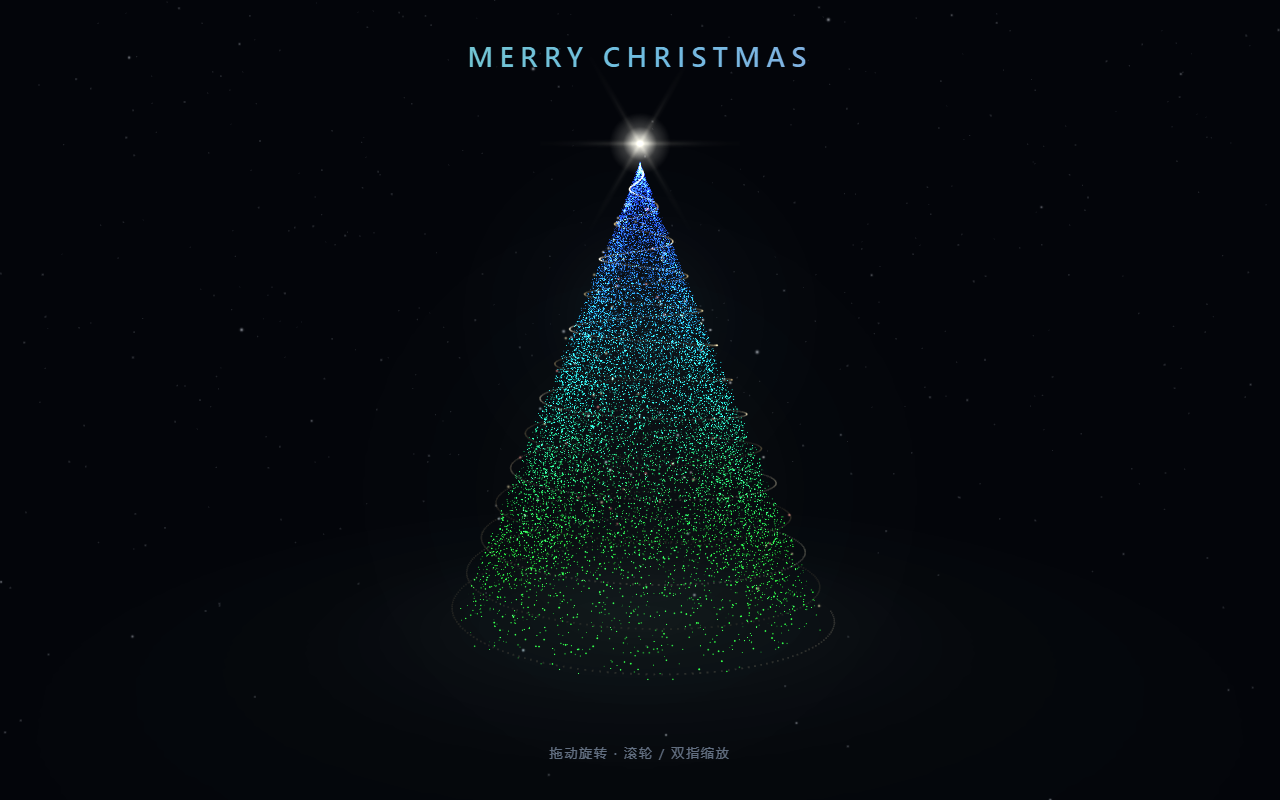
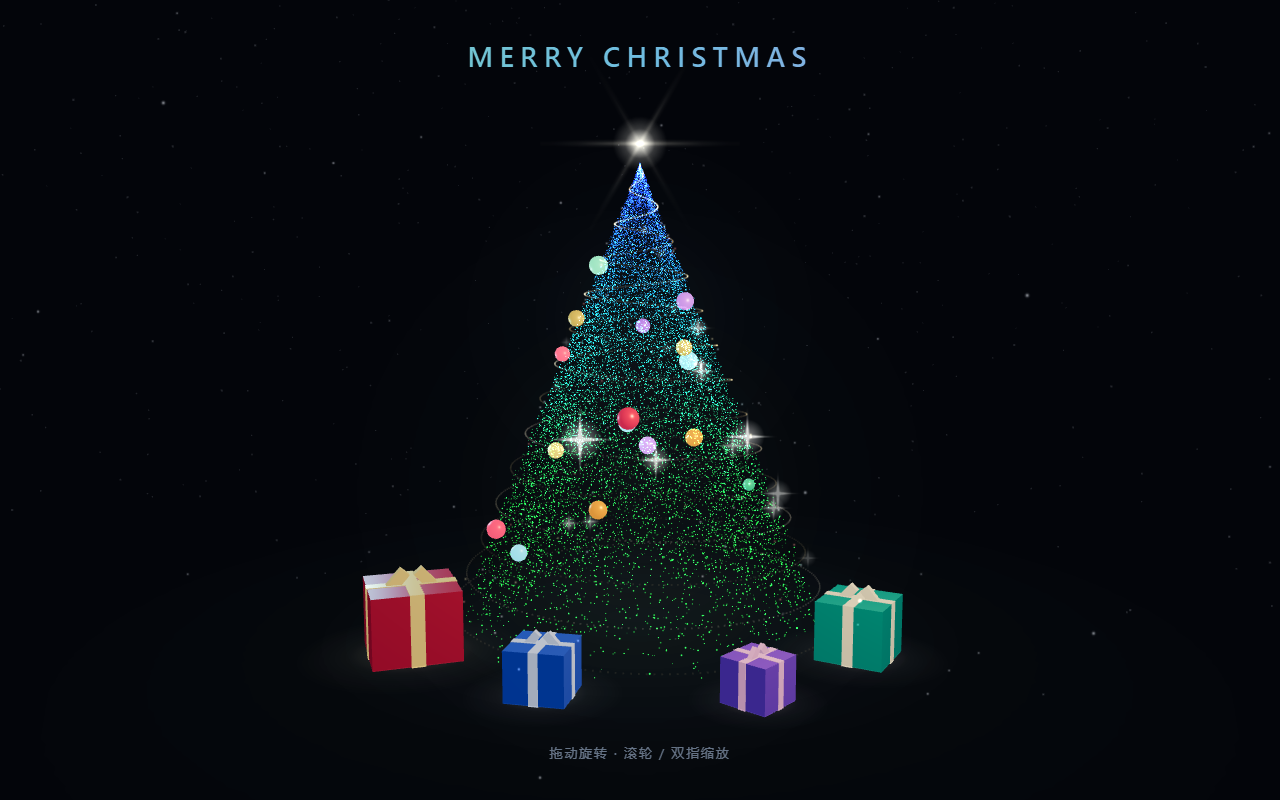
加装饰：彩球、闪光星芒、地面礼盒，手机竖屏自适应

Changed region(s): [[0.2812, 0.2188, 0.7188, 0.9062]]

diff --git a/index.html b/index.html
@@ -64,12 +64,24 @@ renderer.toneMapping = THREE.ACESFilmicToneMapping;
 renderer.toneMappingExposure = 1.2;
 
 const scene = new THREE.Scene();
+
+// 灯光只影响有材质的物体（礼盒、彩球），光点粒子本身是自发光的
+scene.add(new THREE.AmbientLight(0x33445c, 1.6));
+const keyLight = new THREE.PointLight(0xffd9a8, 16, 16, 2);
+keyLight.position.set(1.8, 3.0, 2.6);
+scene.add(keyLight);
+const fillLight = new THREE.PointLight(0x66d9ff, 9, 14, 2);
+fillLight.position.set(-2.6, 1.6, -1.2);
+scene.add(fillLight);
+
 const camera = new THREE.PerspectiveCamera(42, 1, 0.1, 400);
 const LOOK_AT = new THREE.Vector3(0, 1.72, 0);
 let camZ = 8.0;
 
 function layoutCamera() {
-  camera.position.set(0, 2.6, camZ);
+  // 竖屏（手机）时把相机拉远一点，免得两侧的礼盒被裁掉
+  const fit = window.innerWidth / window.innerHeight < 0.75 ? 1.24 : 1.0;
+  camera.position.set(0, 2.6, camZ * fit);
   camera.lookAt(LOOK_AT);
 }
 
@@ -90,6 +102,44 @@ function makeGlowTexture(size = 128) {
   return t;
 }
 const GLOW = makeGlowTexture();
+
+/* 四角星芒贴图：给树上的闪光点用 */
+function makeSparkleTexture(size = 128) {
+  const c = document.createElement('canvas');
+  c.width = c.height = size;
+  const g = c.getContext('2d');
+  const cx = size / 2;
+  const grd = g.createRadialGradient(cx, cx, 0, cx, cx, cx * 0.55);
+  grd.addColorStop(0.0, 'rgba(255,255,255,1)');
+  grd.addColorStop(0.30, 'rgba(255,255,255,0.45)');
+  grd.addColorStop(1.0, 'rgba(255,255,255,0)');
+  g.fillStyle = grd;
+  g.beginPath();
+  g.arc(cx, cx, cx, 0, Math.PI * 2);
+  g.fill();
+  g.globalCompositeOperation = 'lighter';
+  for (let i = 0; i < 4; i++) {
+    g.save();
+    g.translate(cx, cx);
+    g.rotate((i * Math.PI) / 2);
+    const lg = g.createLinearGradient(0, 0, 0, -cx);
+    lg.addColorStop(0, 'rgba(255,255,255,0.95)');
+    lg.addColorStop(0.55, 'rgba(255,255,255,0.35)');
+    lg.addColorStop(1, 'rgba(255,255,255,0)');
+    g.fillStyle = lg;
+    g.beginPath();
+    g.moveTo(-cx * 0.055, 0);
+    g.lineTo(0, -cx * 0.98);
+    g.lineTo(cx * 0.055, 0);
+    g.closePath();
+    g.fill();
+    g.restore();
+  }
+  const t = new THREE.CanvasTexture(c);
+  t.colorSpace = THREE.SRGBColorSpace;
+  return t;
+}
+const SPARKLE = makeSparkleTexture();
 
 const H = 3.5;   // 树高
 const R = 1.45;  // 底部半径
@@ -240,6 +290,49 @@ const ornamentMat = new THREE.PointsMaterial({
 
 treeGroup.add(new THREE.Points(ornamentGeo, ornamentMat));
 
+/* ---------- 树上的彩球：真正的小球体，靠灯光 + 自发光发亮 ---------- */
+const baubleGroup = new THREE.Group();
+treeGroup.add(baubleGroup);
+const BAUBLE_COLORS = [0xff4d6d, 0xffd166, 0x4dd6ff, 0xb07bff, 0x37e59b, 0xff9a3d];
+const baubles = [];
+for (let i = 0; i < 16; i++) {
+  const t = 0.10 + Math.random() * 0.74;
+  const r = R * (1 - t) * 1.02;
+  const a = Math.random() * Math.PI * 2;
+  const col = BAUBLE_COLORS[i % BAUBLE_COLORS.length];
+  const m = new THREE.Mesh(
+    new THREE.SphereGeometry(0.052 + Math.random() * 0.028, 16, 12),
+    new THREE.MeshStandardMaterial({
+      color: col, emissive: col, emissiveIntensity: 0.85,
+      roughness: 0.28, metalness: 0.45
+    })
+  );
+  m.position.set(Math.cos(a) * r, t * H, Math.sin(a) * r);
+  m.userData.phase = Math.random() * Math.PI * 2;
+  baubleGroup.add(m);
+  baubles.push(m);
+}
+
+/* ---------- 树上的闪光星芒：随机位置、各自呼吸闪烁 ---------- */
+const sparkleGroup = new THREE.Group();
+treeGroup.add(sparkleGroup);
+const sparkles = [];
+for (let i = 0; i < 18; i++) {
+  const t = 0.12 + Math.random() * 0.76;
+  const r = R * (1 - t) * (0.9 + Math.random() * 0.16);
+  const a = Math.random() * Math.PI * 2;
+  const s = new THREE.Sprite(new THREE.SpriteMaterial({
+    map: SPARKLE, transparent: true, depthWrite: false,
+    blending: THREE.AdditiveBlending, color: 0xfff4d6, opacity: 0.8
+  }));
+  s.position.set(Math.cos(a) * r, t * H, Math.sin(a) * r);
+  const base = 0.18 + Math.random() * 0.2;
+  s.scale.setScalar(base);
+  s.userData = { base, phase: Math.random() * Math.PI * 2, speed: 0.6 + Math.random() * 1.0 };
+  sparkleGroup.add(s);
+  sparkles.push(s);
+}
+
 /* ---------- 树顶星星：一个光球 + 四道十字flare ---------- */
 const starGroup = new THREE.Group();
 starGroup.position.set(0, H + 0.16, 0);
@@ -340,6 +433,73 @@ for (const cfg of [
   halos.push(s);
 }
 
+/* ---------- 地上的礼盒 ---------- */
+const gifts = new THREE.Group();
+scene.add(gifts);
+
+const giftSpecs = [
+  { w: 0.62, h: 0.50, d: 0.62, x: -1.62, z: 0.80, ry: 0.34, color: 0xe0455c, ribbon: 0xffd98a },
+  { w: 0.48, h: 0.42, d: 0.48, x: 1.54, z: 0.88, ry: -0.52, color: 0x2fb8a8, ribbon: 0xfff1cc },
+  { w: 0.34, h: 0.30, d: 0.34, x: 0.74, z: 1.70, ry: 0.85, color: 0x8f6cf2, ribbon: 0xffc2e8 },
+  { w: 0.40, h: 0.34, d: 0.40, x: -0.62, z: 1.58, ry: -0.22, color: 0x4a7cf0, ribbon: 0xd8e6ff }
+];
+
+for (const spec of giftSpecs) {
+  const { w, h, d } = spec;
+  const group = new THREE.Group();
+
+  const boxMat = new THREE.MeshStandardMaterial({
+    color: spec.color, roughness: 0.5, metalness: 0.15,
+    emissive: spec.color, emissiveIntensity: 0.18
+  });
+  const ribMat = new THREE.MeshStandardMaterial({
+    color: spec.ribbon, roughness: 0.3, metalness: 0.35,
+    emissive: spec.ribbon, emissiveIntensity: 0.32
+  });
+
+  group.add(new THREE.Mesh(new THREE.BoxGeometry(w, h, d), boxMat));
+
+  // 盒子底下的一圈暖光，把它压在地面上
+  const halo = new THREE.Mesh(
+    new THREE.PlaneGeometry(w * 2.6, d * 2.6),
+    new THREE.MeshBasicMaterial({
+      map: GLOW, color: spec.ribbon, transparent: true, opacity: 0.18,
+      depthWrite: false, blending: THREE.AdditiveBlending
+    })
+  );
+  halo.rotation.x = -Math.PI / 2;
+  halo.position.y = -h / 2 + 0.004;
+  group.add(halo);
+
+  // 两条交叉缎带，尺寸略放大一点，避免和盒面 z-fighting
+  group.add(new THREE.Mesh(new THREE.BoxGeometry(w * 0.16, h * 1.02, d * 1.02), ribMat));
+  group.add(new THREE.Mesh(new THREE.BoxGeometry(w * 1.02, h * 1.02, d * 0.16), ribMat));
+
+  // 顶上的蝴蝶结：两片向外张开的小缎带
+  const bowL = new THREE.Mesh(new THREE.BoxGeometry(w * 0.30, h * 0.16, d * 0.10), ribMat);
+  bowL.position.set(-w * 0.17, h / 2 + h * 0.05, 0);
+  bowL.rotation.z = 0.85;
+  const bowR = bowL.clone();
+  bowR.position.x = w * 0.17;
+  bowR.rotation.z = -0.85;
+  group.add(bowL, bowR);
+
+  group.position.set(spec.x, h / 2, spec.z);
+  group.rotation.y = spec.ry;
+  group.userData.baseX = spec.x;
+  gifts.add(group);
+}
+
+// 手机竖屏时把礼盒往中间收，免得最外侧的盒子被屏幕裁掉
+function layoutGifts() {
+  const narrow = window.innerWidth / window.innerHeight < 0.75;
+  const fx = narrow ? 0.76 : 1.0;
+  for (const g of gifts.children) {
+    g.position.x = g.userData.baseX * fx;
+  }
+}
+layoutGifts();
+
 /* ---------- 交互：拖动水平旋转 + 滚轮 / 双指缩放 ---------- */
 const pointers = new Map();
 let dragging = false;
@@ -417,6 +577,7 @@ function resize() {
   camera.fov = w / h < 0.75 ? 52 : 42;
   camera.updateProjectionMatrix();
   layoutCamera();
+  layoutGifts();
   foliageMat.uniforms.uPixelRatio.value = renderer.getPixelRatio();
   renderer.render(scene, camera);
 }
@@ -448,6 +609,17 @@ function animate() {
 
   // 挂饰呼吸
   ornamentMat.size = 0.072 + 0.014 * Math.sin(t * 2.2);
+
+  // 彩球明暗 + 星星闪光
+  for (let i = 0; i < baubles.length; i++) {
+    baubles[i].material.emissiveIntensity = 0.70 + 0.35 * Math.sin(t * 1.4 + baubles[i].userData.phase);
+  }
+  for (let i = 0; i < sparkles.length; i++) {
+    const s = sparkles[i];
+    const tw = 0.5 + 0.5 * Math.sin(t * s.userData.speed + s.userData.phase);
+    s.scale.setScalar(s.userData.base * (0.55 + 1.10 * tw));
+    s.material.opacity = 0.20 + 0.80 * tw;
+  }
 
   // 树顶星星
   const pulse = 1 + 0.12 * Math.sin(t * 2.1);

diff --git a/README.md b/README.md
@@ -1,10 +1,10 @@
 # 圣诞树
 
-一棵会发光的圣诞树：螺旋灯带、颜色一直在渐变、拖动可以水平旋转。
+一棵会发光的圣诞树：螺旋灯带、彩球、闪光星芒、颜色一直在渐变、地上摆着四个礼盒，拖动可以水平旋转。
 
 - 纯静态页面，一个 `index.html` 就是全部
 - 三维库放在 `vendor/three.module.js`，**不依赖任何 CDN**，断网 / 国内访问都能开
-- 手机竖屏会自动拉远视角，双指可缩放
+- 手机竖屏会自动拉远视角、把礼盒往中间收，双指可缩放
 
 ## 本地预览
 
@@ -12,16 +12,11 @@
 
 > 不能直接双击 `index.html`（`type="module"` + importmap 在 `file://` 下会被浏览器拦掉）。
 
-## 部署给朋友看
+## 线上地址
 
-推荐 GitHub Pages：
+https://hen1min.github.io/Christmas-Tree/
 
-1. 新建仓库（例如 `christmas-tree`）
-2. 把这个文件夹里的 `index.html` 和 `vendor/` 推上去
-3. 仓库 Settings → Pages → Source 选 `Deploy from a branch` → 分支 `main`、目录 `/ (root)` → Save
-4. 等 1 分钟，访问 `https://<你的用户名>.github.io/christmas-tree/`
-
-也可以把整个文件夹拖到 Netlify Drop / Cloudflare Pages，直接拿到一个临时网址。
+推送 `main` 后由 `.github/workflows/pages.yml` 自动发布，约 1 分钟生效。
 
 ## 想改的地方
 
@@ -32,12 +27,27 @@
 | 颜色渐变速度 | `animate()` 里的 `uHueBase = (0.28 + t * 0.012) % 1`，改 `0.012` |
 | 自转速度 | `const AUTO_SPIN = 0.22;` |
 | 灯带明暗 | 灯带循环里的 `const k = 0.16 + 0.62 * wave;` |
+| 礼盒数量 / 颜色 / 位置 | `giftSpecs` 数组，每项有 `w h d x z ry color ribbon` |
+| 彩球颜色 | `BAUBLE_COLORS` 数组 |
+| 彩球个数 | 彩球循环的 `i < 16` |
+| 闪光星芒个数 | 星芒循环的 `i < 18` |
+
+## 场景里都有什么
+
+- 树叶：20000 个点填成的体积锥体，颜色用 shader 按高度算色相，整体随时间走完色环
+- 灯带：2400 个点绕 13 圈的螺旋，光点像电流一样向上流动
+- 彩球：16 个真实小球（`SphereGeometry`），自发光 + 灯光，明暗呼吸
+- 星芒：18 个四角星 sprite，各自带相位闪烁
+- 树顶：光球 + 三道旋转的十字 flare
+- 礼盒：4 个，带交叉缎带、蝴蝶结、地面暖光
+- 其他：飘雪、背景星空、地面辉光、树身外围柔光
 
 ## 结构
 
 ```
 index.html                 页面 + 场景 + 交互（全部逻辑都在这一个文件里）
 vendor/three.module.js     three.js r160 本地副本
+.github/workflows/pages.yml  推 main 自动发布到 GitHub Pages
 start.bat                  本地起服务
 preview.png                截图
 ```
